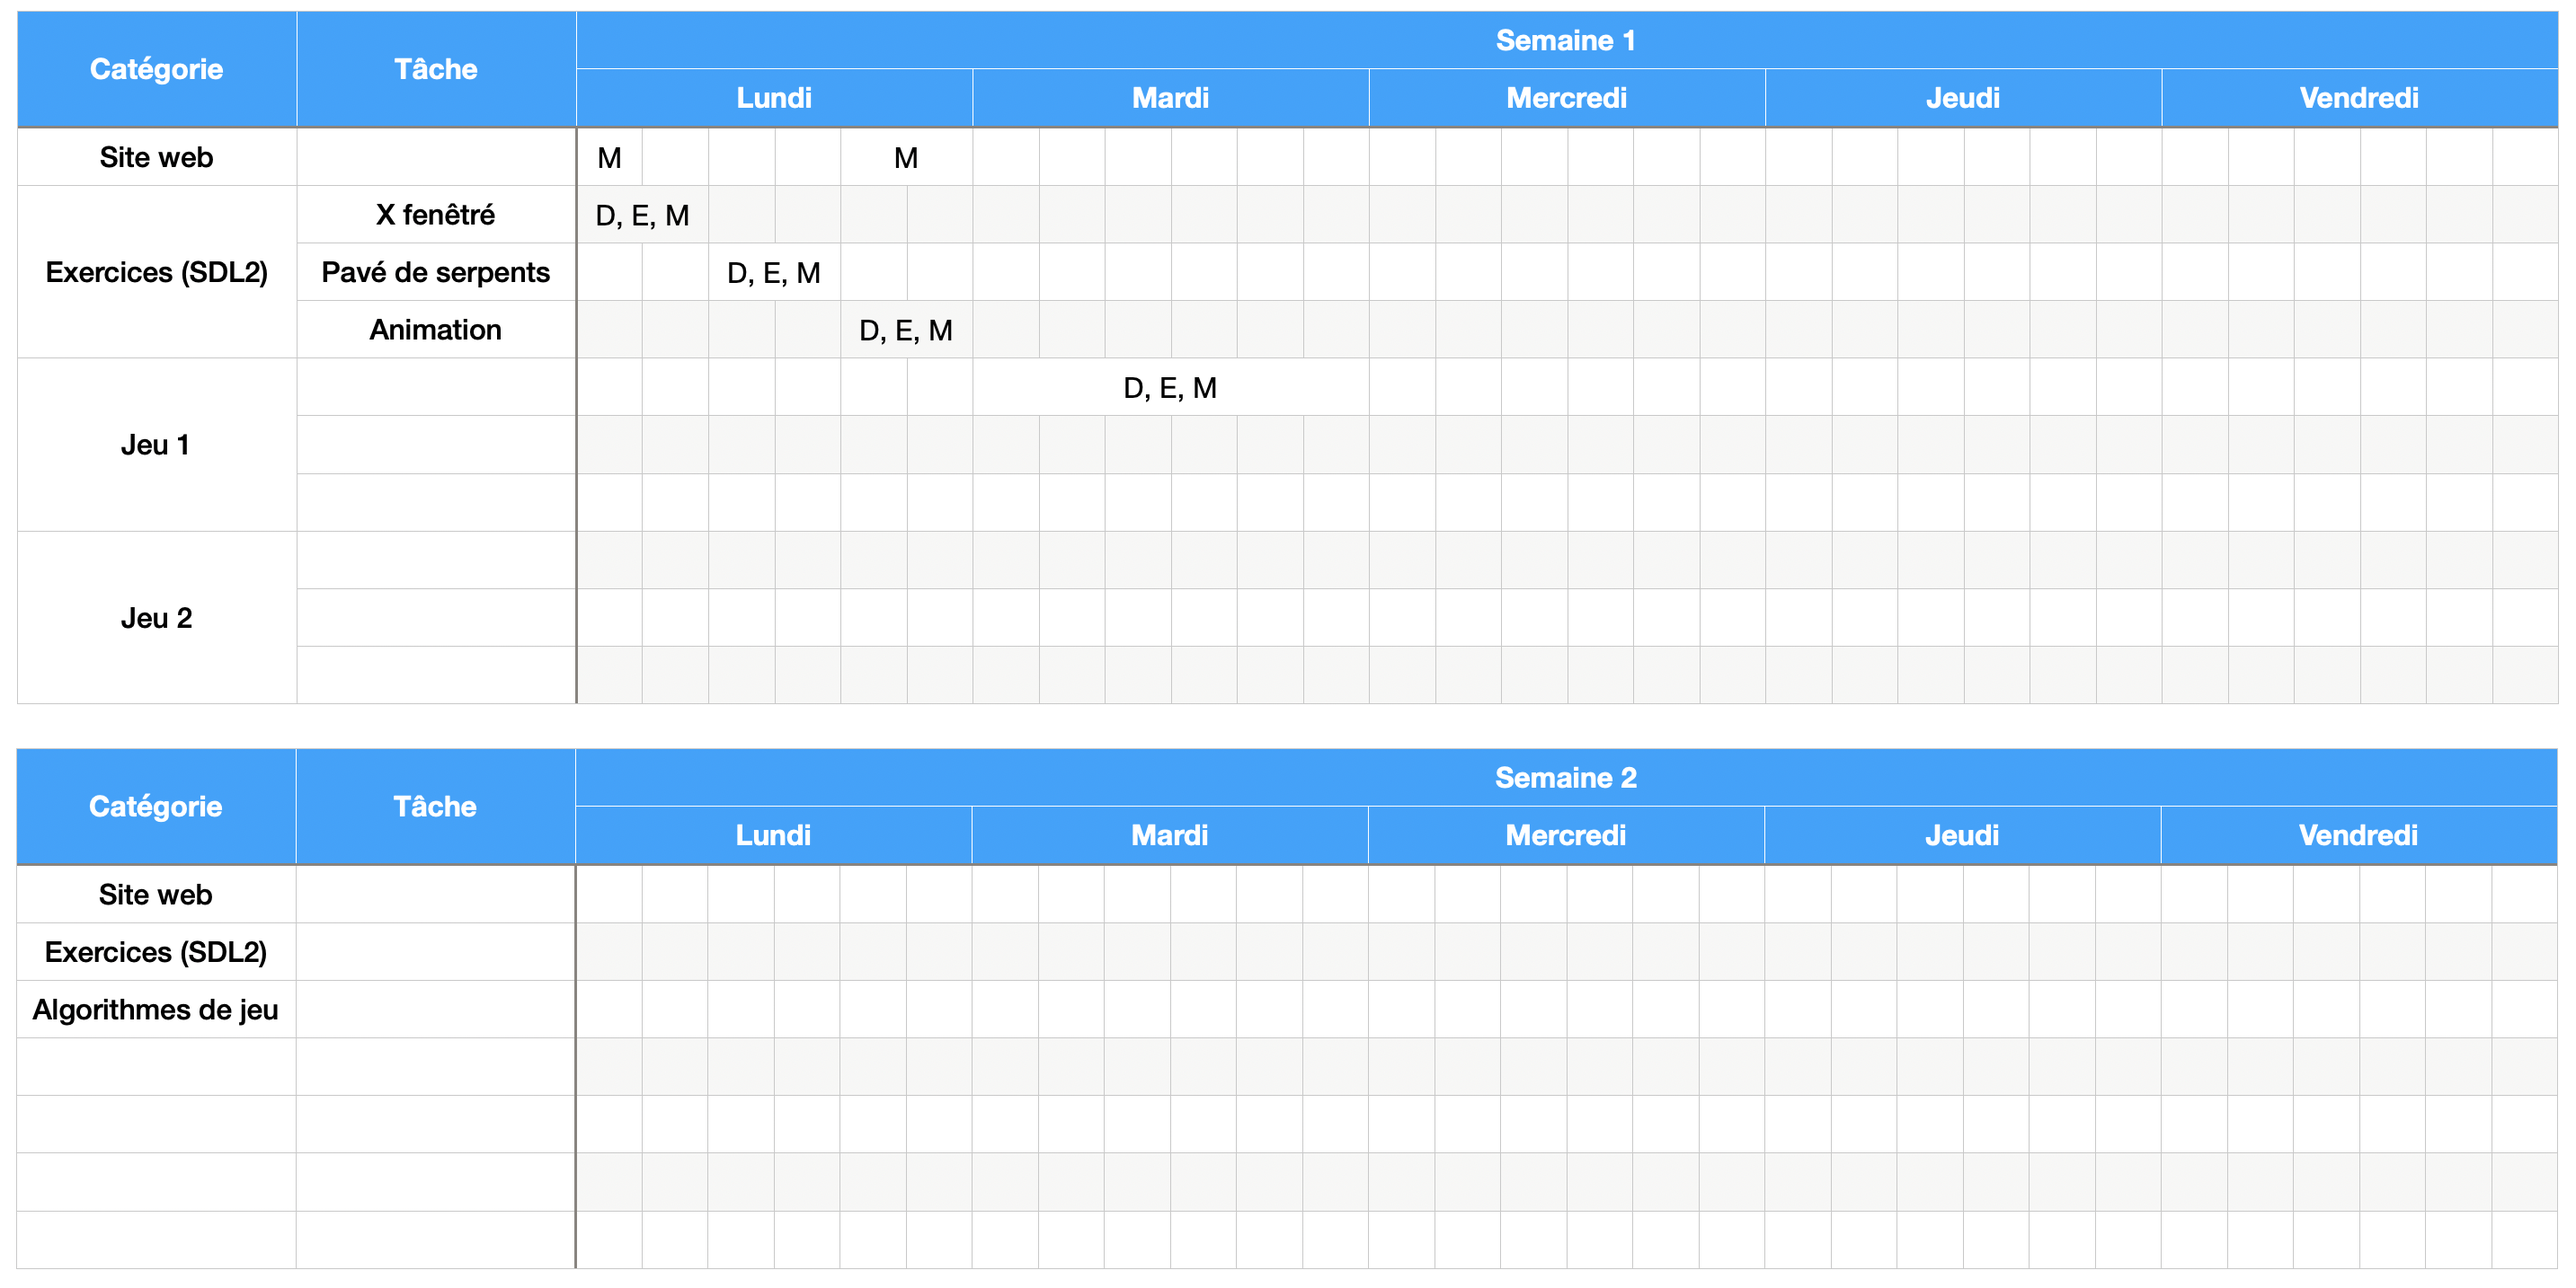
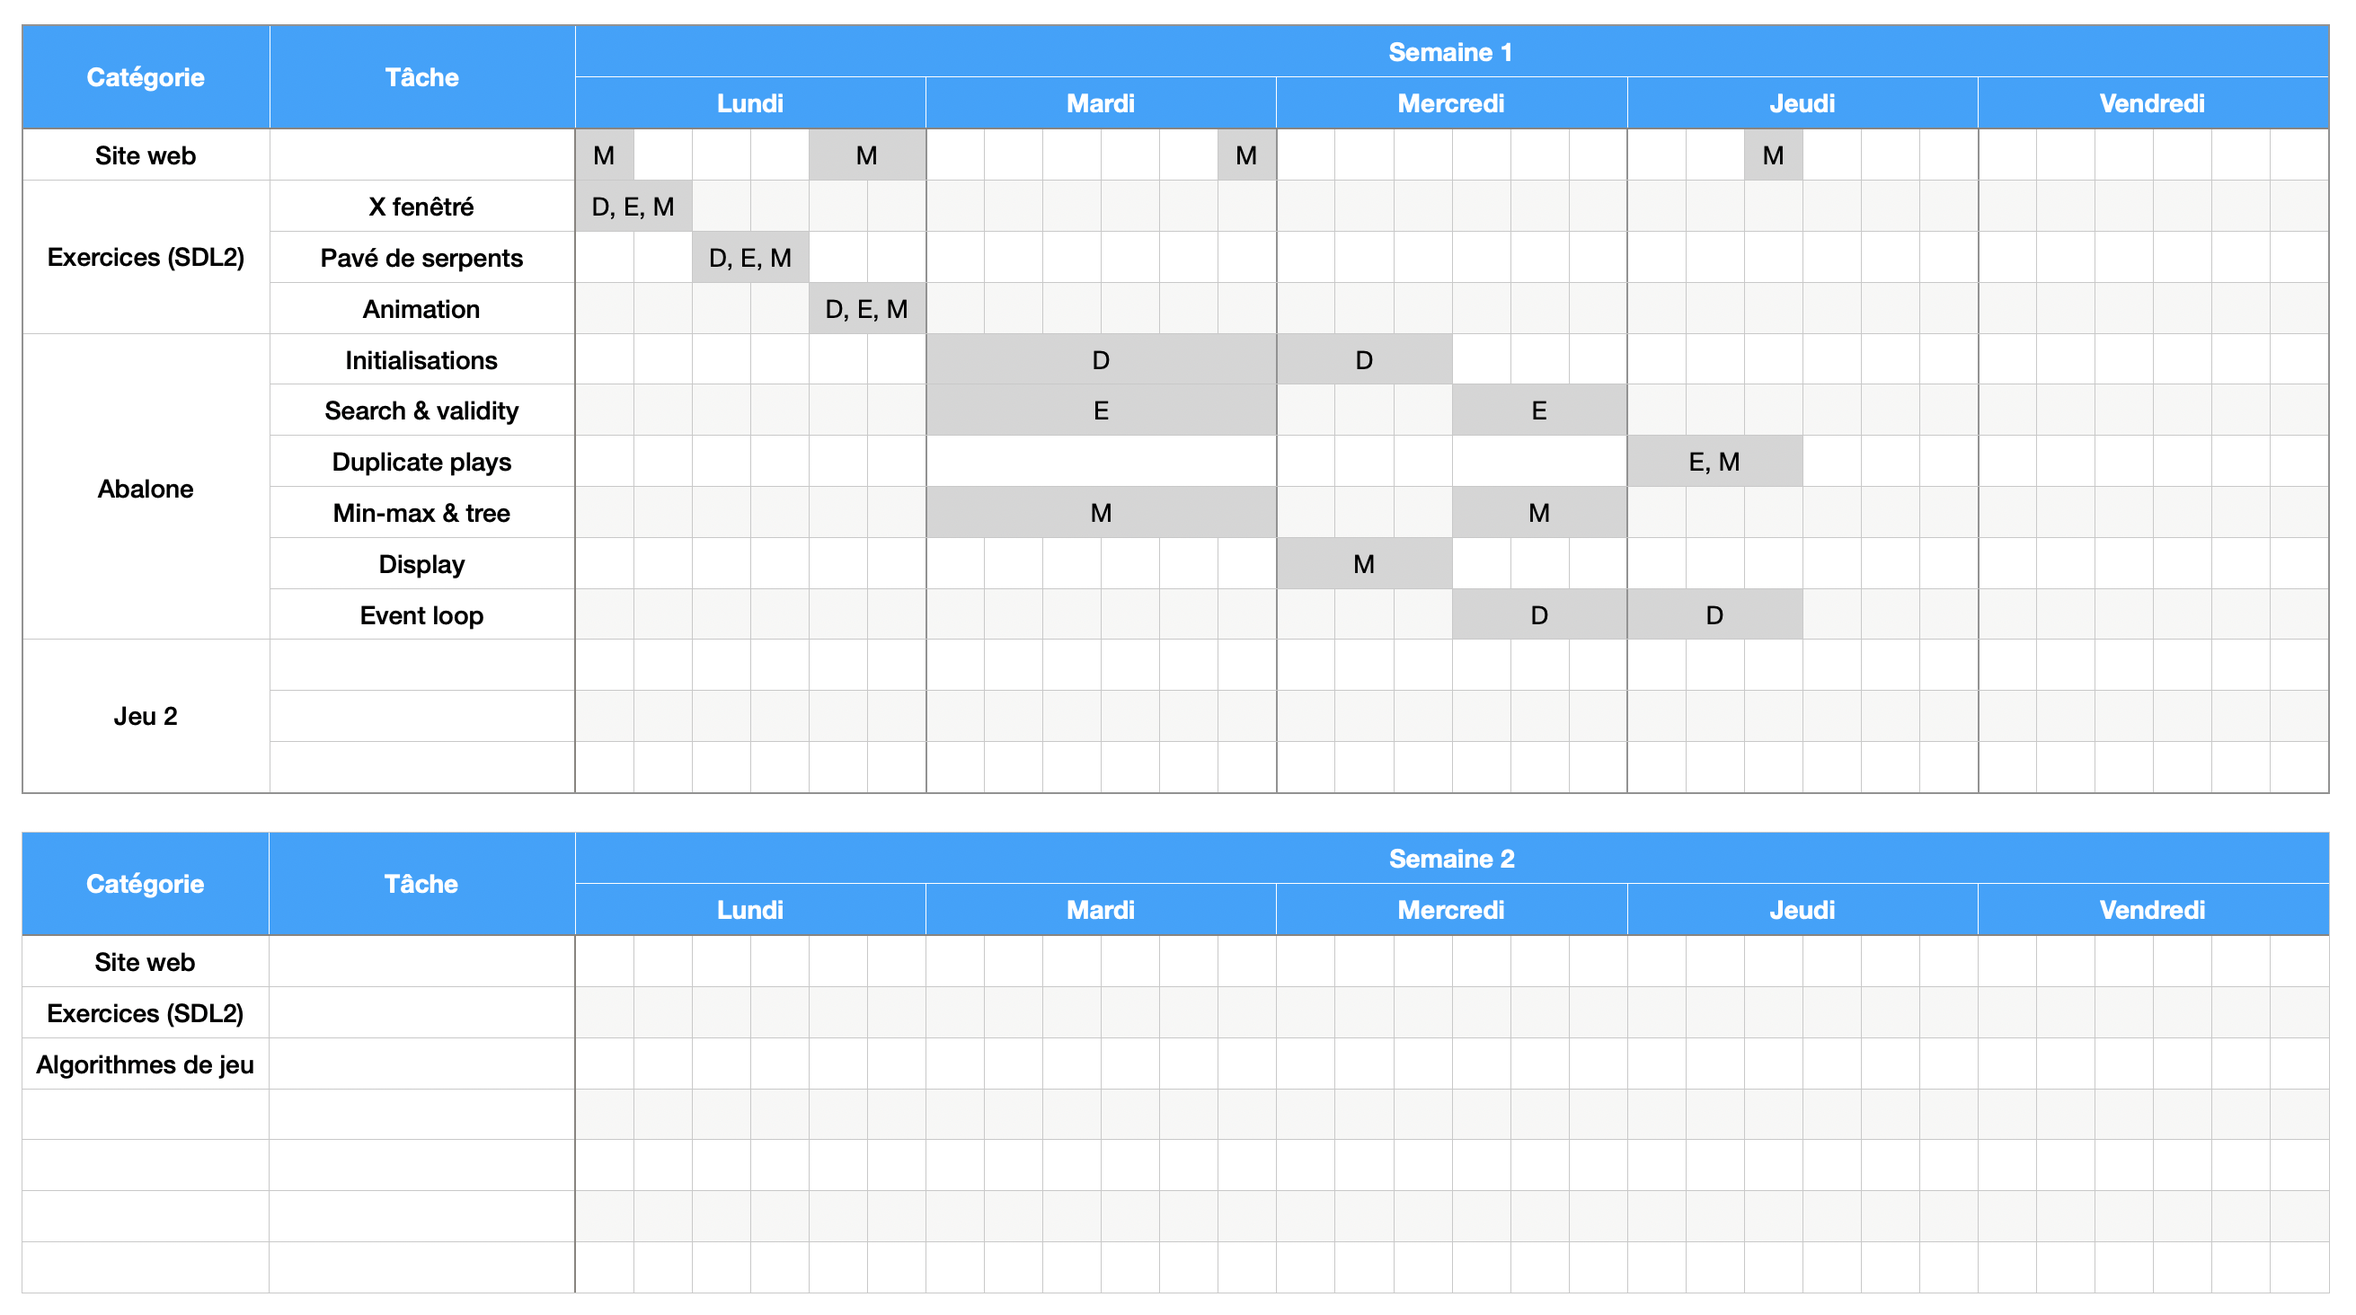
Edited website

diff --git a/docs/sem1/index.html b/docs/sem1/index.html
@@ -290,12 +290,12 @@
     <h2 id="matin">Matin</h2>
 <ul>
 <li>Présentation du projet/consignes.</li>
-<li>Réalisation du &ldquo;X fenêtré&rdquo;.</li>
+<li>Réalisation du <em>X fenêtré</em>.</li>
 </ul>
 <h2 id="après-midi">Après-midi</h2>
 <ul>
-<li>Réalisation du &ldquo;pavé de serpents&rdquo;.</li>
-<li>Réalisation de l&rsquo;&ldquo;animation&rdquo;.</li>
+<li>Réalisation du <em>pavé de serpents</em>.</li>
+<li>Réalisation de l&rsquo;<em>animation</em>.</li>
 </ul>
 
 </article>
@@ -344,17 +344,17 @@
     
     <h2 id="matin">Matin</h2>
 <ul>
-<li>Fin du programme &ldquo;animation&rdquo;.</li>
+<li>Fin du programme <em>animation</em>.</li>
 <li>Réflexion de la segmentation et de la répartition des tâches du jeu 1 (Abalone).</li>
 </ul>
 <h2 id="après-midi">Après-midi</h2>
 <ul>
-<li>Exécution des tâches réparties
+<li>Exécution des tâches réparties :
 <ul>
-<li>Définition des structures</li>
-<li>Domitille : fonctions d&rsquo;initialisation</li>
-<li>Éloi : fonctions de génération de tous les coups possibles</li>
-<li>Mathéo : fonctions nécessaires à l&rsquo;algorithme min-max</li>
+<li>Définition des structures.</li>
+<li>Domitille : fonctions d&rsquo;initialisation.</li>
+<li>Éloi : fonctions de génération de tous les coups possibles.</li>
+<li>Mathéo : fonctions nécessaires à l&rsquo;algorithme min-max.</li>
 </ul>
 </li>
 </ul>
@@ -403,7 +403,18 @@
 <article class="line-numbers">
     
     
-    
+    <h2 id="matin">Matin</h2>
+<ul>
+<li>Mathéo : fonctions d&rsquo;affichage du plateau et des pions.</li>
+<li>Domitille : fonctions d&rsquo;initialisation de configurations initiales du plateau.</li>
+<li>Éloi : fonctions de validation des coups.</li>
+</ul>
+<h2 id="après-midi">Après-midi</h2>
+<ul>
+<li>Débuggage des fonctions <strong>min-max</strong> et de <strong>génération/validation</strong> des coups.</li>
+<li>Début de la boucle d&rsquo;événements principale.</li>
+</ul>
+
 </article>
 </div>
 </div>
